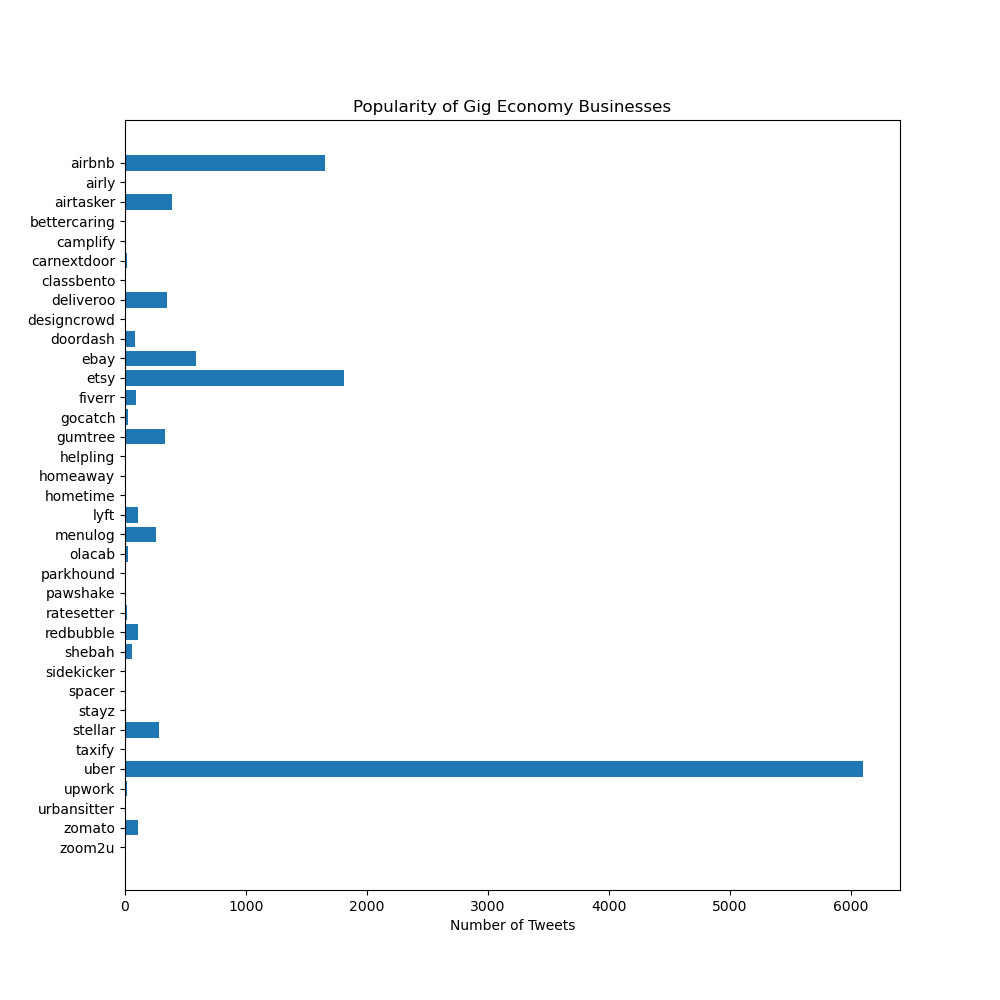
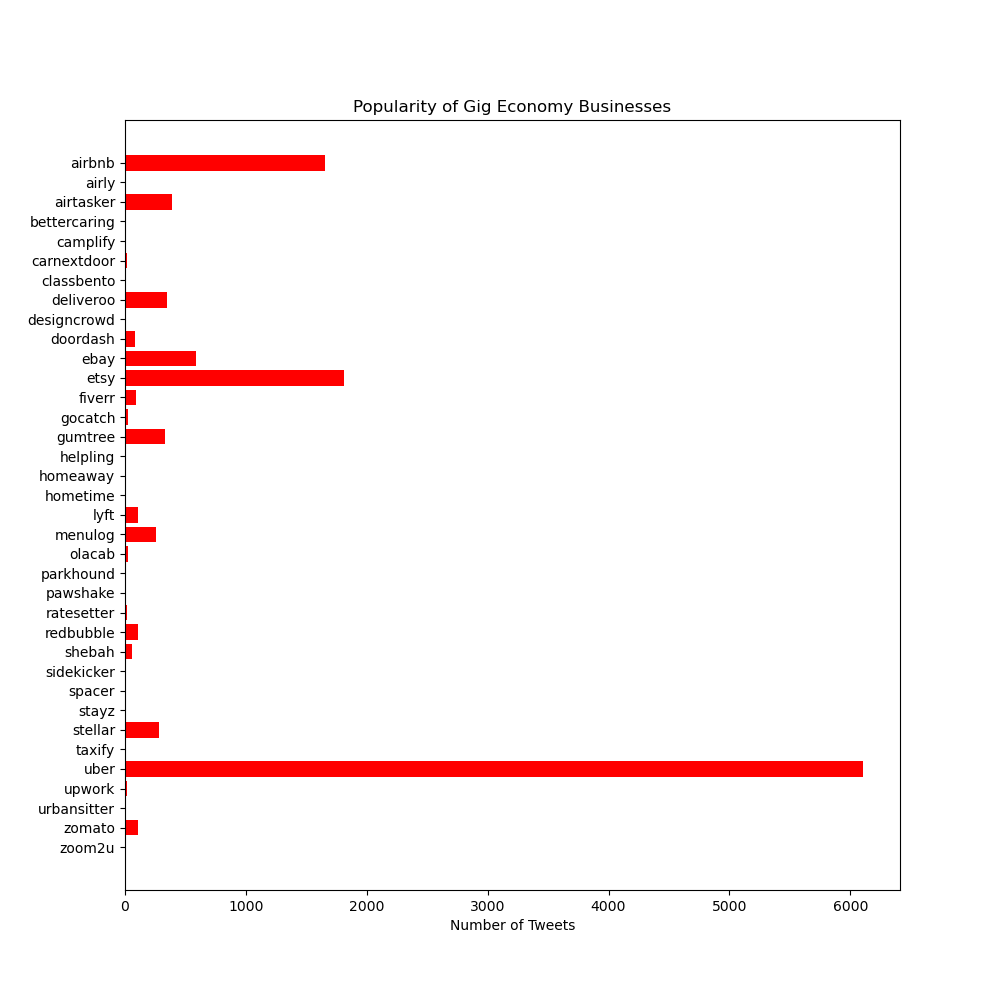
changed para

diff --git a/ansible/roles/application-frontend/files/frontend-app/app/templates/tweet_pop.html b/ansible/roles/application-frontend/files/frontend-app/app/templates/tweet_pop.html
@@ -13,7 +13,7 @@
     <div class="row form-group border-top">
         <div class="col-lg-12 border">
             <figure>
-                <img src="{{ overall }}" alt="Image" height="600" width="700" />
+                <img src="{{ overall }}" alt="Image" height="500" width="500" />
                 
             </figure>
         </div>
@@ -37,7 +37,7 @@
     <div class="row form-group border-top">
         <div class="col-lg-6 border">
             <figure>
-                <img src="{{ nsw_fp }}" alt="Image" height="600" width="700" />
+                <img src="{{ nsw_fp }}" alt="Image" height="500" width="500" />
                 
             </figure>
         </div>
@@ -55,7 +55,7 @@
     <div class="row form-group border-top">
         <div class="col-lg-6 border">
             <figure>
-                <img src="{{ wa_fp }}" alt="Image" height="600" width="700" />
+                <img src="{{ wa_fp }}" alt="Image" height="500" width="500" />
                 
             </figure>
         </div>
@@ -72,7 +72,7 @@
     <div class="row form-group border-top">
         <div class="col-lg-6 border">
             <figure>
-                <img src="{{ nt_fp }}" alt="Image" height="600" width="700" />
+                <img src="{{ nt_fp }}" alt="Image" height="500" width="500" />
                 
             </figure>
         </div>
@@ -90,7 +90,7 @@
     <div class="row form-group border-top">
         <div class="col-lg-6 border">
             <figure>
-                <img src="{{ sa_fp }}" alt="Image" height="600" width="700" />
+                <img src="{{ sa_fp }}" alt="Image" height="500" width="500" />
                 
             </figure>
         </div>
@@ -108,7 +108,7 @@
     <div class="row form-group border-top">
         <div class="col-lg-6 border">
             <figure>
-                <img src="{{ qld_fp }}" alt="Image" height="600" width="700" />
+                <img src="{{ qld_fp }}" alt="Image" height="500" width="500" />
                 
             </figure>
         </div>
@@ -126,7 +126,7 @@
     <div class="row form-group border-top">
         <div class="col-lg-6 border">
             <figure>
-                <img src="{{ tas_fp }}" alt="Image" height="600" width="700" />
+                <img src="{{ tas_fp }}" alt="Image" height="500" width="500" />
                 
             </figure>
         </div>
@@ -144,7 +144,7 @@
     <div class="row form-group border-top">
         <div class="col-lg-6 border">
             <figure>
-                <img src="{{ act_fp }}" alt="Image" height="600" width="700" />
+                <img src="{{ act_fp }}" alt="Image" height="500" width="500" />
             </figure>
         </div>
         <div class="col-lg-6 border">

diff --git a/ansible/roles/application-frontend/files/frontend-app/app/templates/includes/_navbar.html b/ansible/roles/application-frontend/files/frontend-app/app/templates/includes/_navbar.html
@@ -1,23 +1,22 @@
-<nav class="navbar navbar-default">
-      <div class="container">
-        <div class="navbar-header">
-          <button type="button" class="navbar-toggle collapsed" data-toggle="collapse" data-target="#navbar" aria-expanded="false" aria-controls="navbar">
-            <span class="sr-only">Toggle navigation</span>
-            <span class="icon-bar"></span>
-            <span class="icon-bar"></span>
-            <span class="icon-bar"></span>
-          </button>
-          <a class="navbar-brand" href="#">Group33</a>
-        </div>
-        <div id="navbar" class="collapse navbar-collapse">
-          <ul class="nav navbar-nav">
-            <li><a href="/">Home</a></li>
-            <li><a href="/about">About</a></li>
-          </ul>
+<nav class="navbar navbar-default sticky">
+  <div class="container">
+    <div class="navbar-header">
+      <button type="button" class="navbar-toggle collapsed" data-toggle="collapse" data-target="#navbar" aria-expanded="false" aria-controls="navbar">
+        <span class="sr-only">Toggle navigation</span>
+        <span class="icon-bar"></span>
+        <span class="icon-bar"></span>
+        <span class="icon-bar"></span>
+      </button>
+      <a class="navbar-brand" href="#">Forever_33</a>
+    </div>
+    <div id="navbar" class="collapse navbar-collapse">
+      <ul class="nav navbar-nav">
+        <li><a href="/">Home</a></li>
+        <li><a href="/about">About Us</a></li>
+      </ul>
+      <ul class="nav navbar-nav navbar-right">
 
-          <ul class="nav navbar-nav navbar-right">
-
-          </ul>
-        </div><!--/.nav-collapse -->
-      </div>
-    </nav>
+      </ul>
+    </div><!--/.nav-collapse -->
+  </div>
+</nav>

diff --git a/ansible/roles/application-frontend/files/frontend-app/app/controller.py b/ansible/roles/application-frontend/files/frontend-app/app/controller.py
@@ -142,14 +142,15 @@ def GetLocalGig():
                       "_view/local-gig-view",
                      "?reduce=true&group_level=2")
 
-
     fig, ax = plt.subplots()
     ax.bar(statekeys, statevalues)
     ax.set_ylabel('Count')
-    ax.set_title('Num of Gig economy was tweeted in states in Australia')
+    ax.set_title(
+        'Num of Gig economy was tweeted in states of Australia from 2010 to 2020')
     ax.set_xticklabels(statekeys)
-    for a,b in zip(statekeys, statevalues):
-        plt.text(a, b, str(b))
+    for a, b in zip(statekeys, statevalues):
+        plt.text(a, b + 130, str(b), horizontalalignment='center',
+                 verticalalignment='center')
     fig.savefig('img/stateGig.png')
     return "img/stateGig.png"
 #GetLocalGig()
@@ -455,13 +456,14 @@ def GetMedAgePopulation():
 def GetElderlyPopPercentage():
     variables = {}
     variables = load_variables()
-    response = couchdb_requests.couch_get_view(variables,"aurin-population",
+    response = couchdb_requests.couch_get_view(variables,"aurin-population/",
                                                         "_design/population/",
                                                         "_view/population/","")
     statemap = defaultdict(int)
     freq = defaultdict(int)
     # going through the twitter data from couchdb
     # do data processing
+    print(response)
     for i in response["rows"]:
         location = i["key"]
         value = i["value"]["elderly_pop_pr100"]
@@ -762,14 +764,14 @@ def get_unemployment_tweet():
 
     #create graph one unemployment vs year per state
     x_axis = ['2010','2011','2012','2013','2014','2015','2016','2017']
-    plt_1 = plt.figure(1,figsize=(8,8))
+    plt_1 = plt.figure(1,figsize=(10,10))
     for state in unemployment_count.keys():
         plt.plot(x_axis, unemployment_count[state], label = state)
     
-    plt.xlabel('year', fontsize=16)
-    plt.ylabel('no. of people unemployed', fontsize=16)
+    plt.xlabel('year', fontsize=14)
+    plt.ylabel('no. of people unemployed', fontsize=14)
     plt.title('Unemployment vs Year (State)', fontsize=20)
-    plt_1.legend()
+    plt_1.legend(loc=7)
     plt_1.savefig('img/unemp_vs_year_state.png')
     
     #create graph two unemployment vs year overall
@@ -780,8 +782,8 @@ def get_unemployment_tweet():
 
     plt_2 = plt.figure(2, figsize=(8,8))
     plt.plot(x_axis, total)
-    plt.xlabel('year', fontsize=16)
-    plt.ylabel('no. of people unemployed', fontsize=16)
+    plt.xlabel('year', fontsize=14)
+    plt.ylabel('no. of people unemployed', fontsize=14)
     plt.title('Unemployment vs Year', fontsize=20)
     plt_2.savefig('img/unemp_vs_year.png')
     x_axis_4 = list(year_count.keys())
@@ -791,7 +793,7 @@ def get_unemployment_tweet():
         y_axis_4.append(year_count[year])
     
     plt_3 = plt.figure(3, figsize=(8,8))
-    plt.plot(x_axis, y_axis_4)
+    plt.plot(x_axis, y_axis_4, color="red")
     plt.xlabel('year', fontsize=16)
     plt.ylabel('no. of gig economy tweets', fontsize=16)
     plt.title('Gig Economy Tweets vs year', fontsize=20)
@@ -817,7 +819,7 @@ def get_business_popularity():
     plt.rcdefaults()
     fig, ax = plt.subplots(figsize=(10,10))
     y_arrange = np.arange(len(y_pos))
-    ax.barh(y_arrange, x_pos, align='center')
+    ax.barh(y_arrange, x_pos, align='center', color="red")
     ax.set_yticks(y_arrange)
     ax.set_yticklabels(y_pos)
     ax.invert_yaxis()  # labels read top-to-bottom
